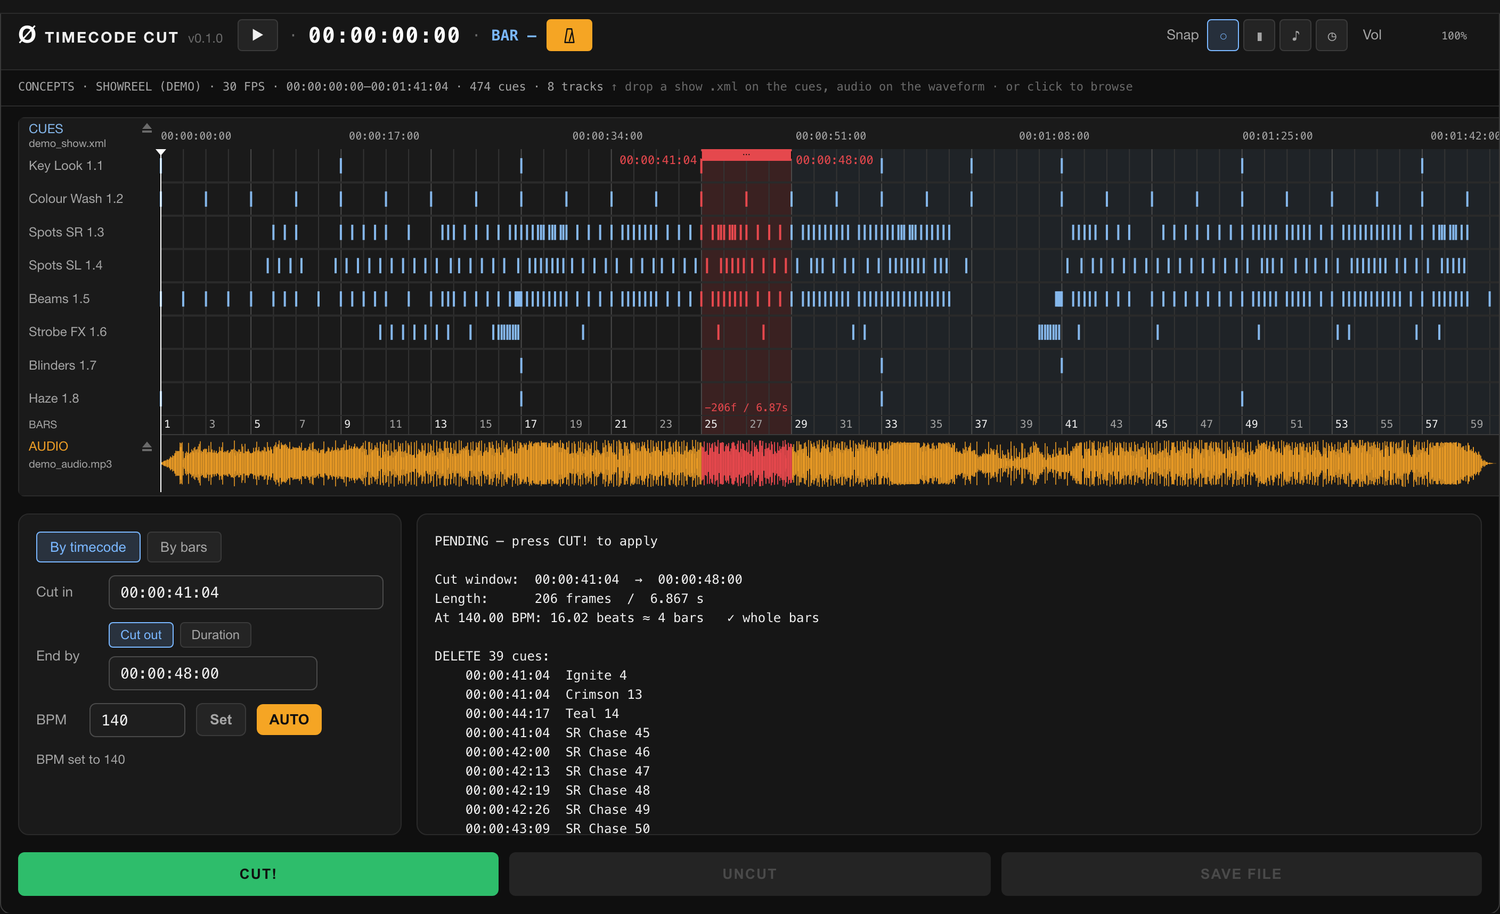
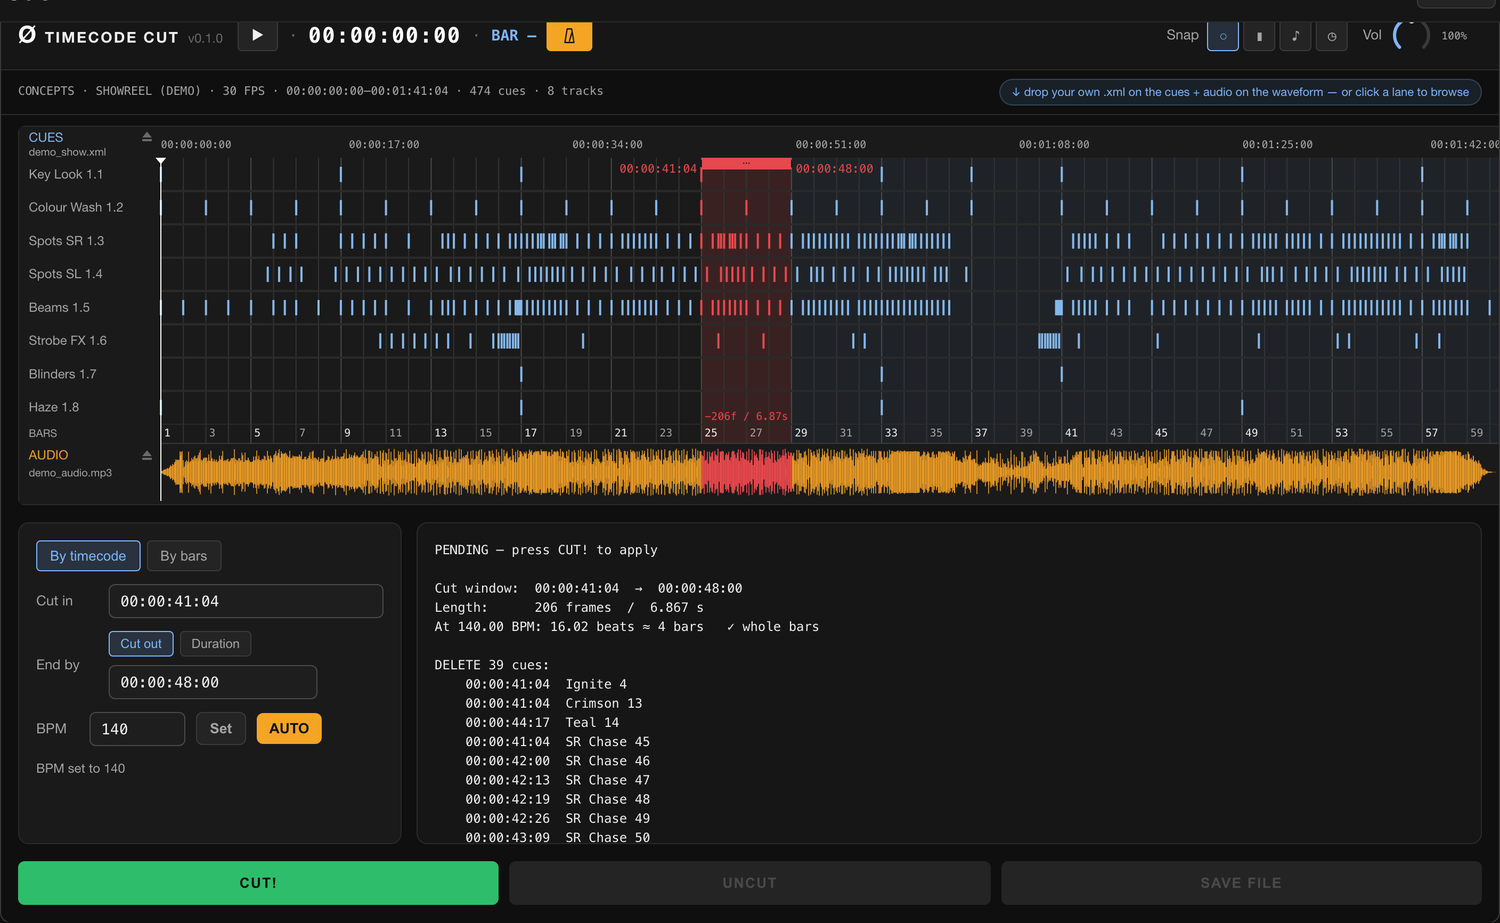
web: explicit load hint, track credit, "back", drop hero hover badge
- The drop/load instruction was appended to the info line and got
  ellipsis-clipped, so it was easy to miss when opening onto the demo.
  It's now a standalone, always-visible info-blue pill on the right of
  the info row ("↓ drop your own .xml on the cues + audio on the waveform
  — or click a lane to browse"); the summary keeps its own ellipsis.
- Demo credit → "Demo track by Artem Kharchenko · © 2026" (footer + the
  in-tool credit line).
- App-bar button "← back to studio" → "← back".
- Removed the "Open the tool ▸" hover badge on the hero screenshot.
- Refreshed hero.png to show the new info pill.

diff --git a/web/src/styles.css b/web/src/styles.css
@@ -260,7 +260,6 @@ footer.site a:focus-visible {
 
 /* ---------------- hero screenshot ---------------- */
 .hero-shot {
-  position: relative;
   display: block;
   border: 1px solid var(--border);
   border-radius: var(--radius-lg);
@@ -270,27 +269,9 @@ footer.site a:focus-visible {
   cursor: pointer;
   transition: border-color 0.15s, transform 0.15s;
 }
-.hero-shot::after {
-  content: "Open the tool ▸";
-  position: absolute;
-  right: 12px;
-  bottom: 12px;
-  padding: 6px 12px;
-  background: var(--action);
-  color: var(--bg-app);
-  font-size: 12px;
-  font-weight: 700;
-  border-radius: var(--radius-md);
-  opacity: 0;
-  transition: opacity 0.15s;
-}
 .hero-shot:hover {
   transform: translateY(-2px);
   border-color: var(--border-strong);
-}
-.hero-shot:hover::after,
-.hero-shot:focus-visible::after {
-  opacity: 1;
 }
 .hero-shot img {
   display: block;
@@ -505,11 +486,17 @@ body.tool-open .app-view {
 
 /* info row */
 .info-row {
+  display: flex;
+  align-items: center;
+  flex-wrap: wrap;
+  gap: 8px 14px;
   padding: 8px 16px;
   background: var(--bg-app);
   border-bottom: 1px solid var(--border-subtle);
 }
 .info-label {
+  flex: 1 1 auto;
+  min-width: 0;
   font-family: var(--mono);
   font-size: 11px;
   color: var(--text-muted);
@@ -517,8 +504,15 @@ body.tool-open .app-view {
   overflow: hidden;
   text-overflow: ellipsis;
 }
-.info-label .tip {
-  color: var(--text-dim);
+.info-tip {
+  flex-shrink: 0;
+  font-size: 11px;
+  color: var(--info);
+  background: rgba(122, 183, 255, 0.1);
+  border: 1px solid rgba(122, 183, 255, 0.25);
+  padding: 3px 11px;
+  border-radius: 999px;
+  white-space: nowrap;
 }
 
 /* timeline */

diff --git a/web/src/ui/app.ts b/web/src/ui/app.ts
@@ -11,6 +11,8 @@ import { VolumeKnob } from "./knob.ts";
 
 export const APP_VERSION = "0.1.0";
 const AUDIO_EXT = [".wav", ".mp3", ".flac", ".ogg", ".aif", ".aiff", ".m4a"];
+const DROP_HINT = "↓ drop your own .xml on the cues + audio on the waveform — or click a lane to browse";
+const DROP_HINT_EMPTY = "↓ drop a grandMA2 .xml here — or click the cue area to browse";
 
 function h<K extends keyof HTMLElementTagNameMap>(
   tag: K,
@@ -51,6 +53,7 @@ export class ToolApp {
   private metroBtn!: HTMLButtonElement;
   private volLbl!: HTMLElement;
   private infoLabel!: HTMLElement;
+  private infoTip!: HTMLElement;
   private cinInput!: HTMLInputElement;
   private coutInput!: HTMLInputElement;
   private durInput!: HTMLInputElement;
@@ -125,9 +128,10 @@ export class ToolApp {
 
     const header = h("div", { class: "header" }, brand, transport, h("div", { class: "spacer" }), snapWrap, vol);
 
-    // info line
+    // info line: summary (left, may ellipsis) + an always-visible load hint (right)
     this.infoLabel = h("div", { class: "info-label" }, "No show loaded");
-    const info = h("div", { class: "info-row" }, this.infoLabel);
+    this.infoTip = h("div", { class: "info-tip" }, DROP_HINT);
+    const info = h("div", { class: "info-row" }, this.infoLabel, this.infoTip);
 
     // timeline
     const tlWrap = h("div", { class: "tl-wrap" }, this.timeline.el);
@@ -328,11 +332,9 @@ export class ToolApp {
     this.info = info;
     this.fps = info.fps;
     this.anchor = info.firstFrame;
-    this.infoLabel.innerHTML = "";
-    this.infoLabel.append(
-      `${info.name} · ${info.fps} FPS · ${info.firstTc}–${info.lastTc} · ${info.nEvents} cues · ${info.nSubtracks} tracks`,
-      h("span", { class: "tip" }, "  ↑ drop a show .xml on the cues, audio on the waveform · or click to browse"),
-    );
+    this.infoLabel.textContent =
+      `${info.name} · ${info.fps} FPS · ${info.firstTc}–${info.lastTc} · ${info.nEvents} cues · ${info.nSubtracks} tracks`;
+    this.infoTip.textContent = DROP_HINT;
     this.timeline.setShow(info.fps, lanes(this.text!), info.firstFrame, info.lastFrame, this.showName);
     this.timeline.setGrid(this.appliedBpm, this.anchor);
     if (resetAudio) {
@@ -366,6 +368,7 @@ export class ToolApp {
     this.metroBtn.disabled = true;
     this.setLoaded(false);
     this.infoLabel.textContent = "No show loaded";
+    this.infoTip.textContent = DROP_HINT_EMPTY;
     this.report.textContent = "Load a grandMA2 timecode .xml to begin.";
     this.bpmInput.value = "";
     this.bpmHint.textContent = "";

diff --git a/web/index.html b/web/index.html
@@ -95,7 +95,7 @@
     <footer class="site">
       <div class="wrap">
         <span>© 2026 ØJE Studio · MA2 Timecode Cut · MIT</span>
-        <span class="credit">Demo track “concepts · showreel ’26” — © ØJE Studio</span>
+        <span class="credit">Demo track by Artem Kharchenko · © 2026</span>
         <span><a href="https://oje.studio">oje.studio</a> · <a href="https://github.com/oje-studio/ma2-tc-cut">source</a> · soft.oje.studio</span>
       </div>
     </footer>
@@ -109,12 +109,11 @@
         <span class="app-bar-sep">·</span>
         <span class="app-bar-tool">MA2 Timecode Cut</span>
         <span class="nav-spacer"></span>
-        <button class="app-close" type="button">← back to studio</button>
+        <button class="app-close" type="button">← back</button>
       </header>
       <div id="tool-mount"></div>
       <div class="app-credit">
-        Demo: “concepts · showreel ’26” — music © 2026 ØJE Studio, all rights reserved. Drop
-        your own show .xml and audio to cut for real.
+        Demo track by Artem Kharchenko · © 2026. Drop your own show .xml and audio to cut for real.
       </div>
     </div>
 